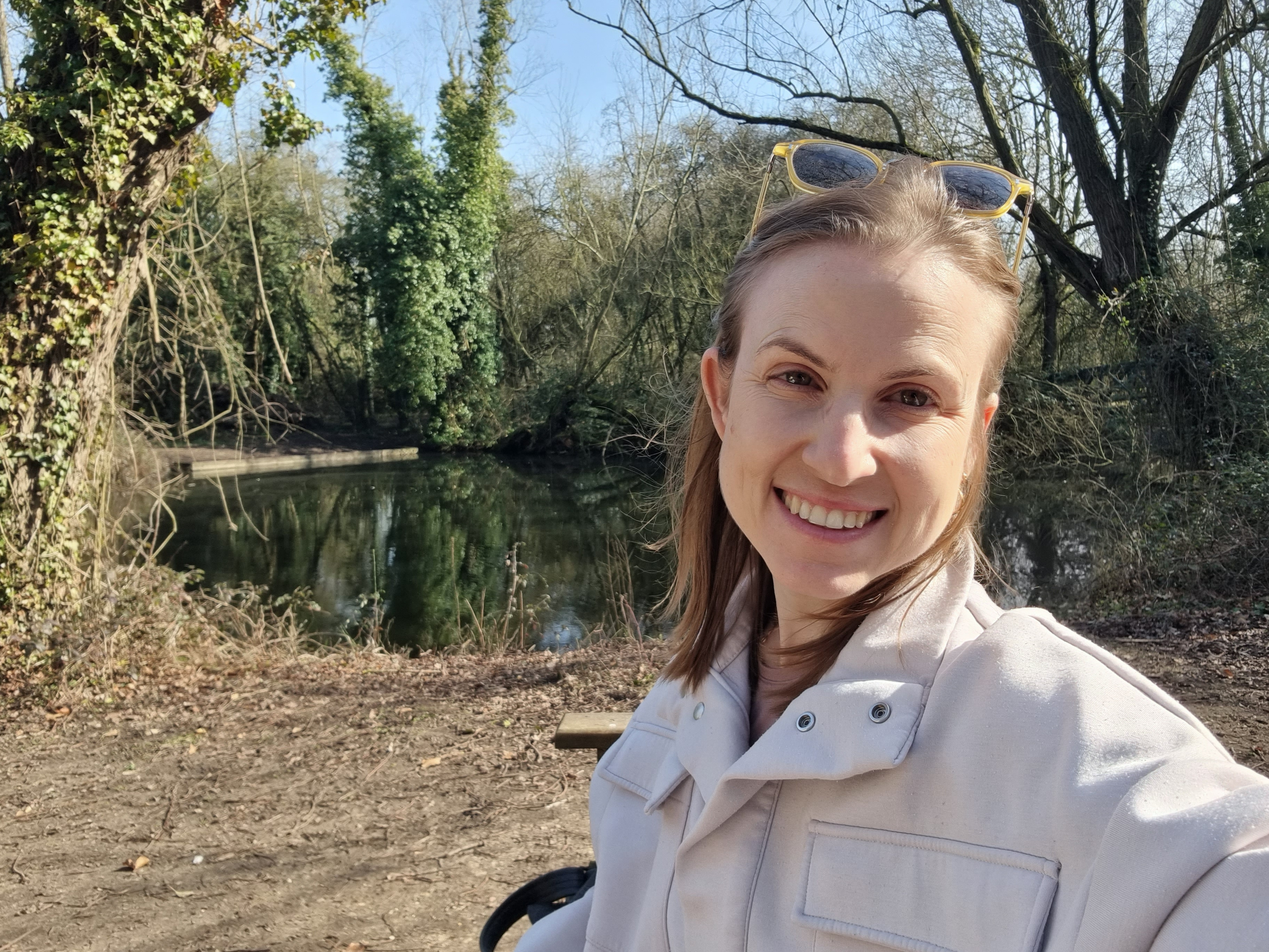
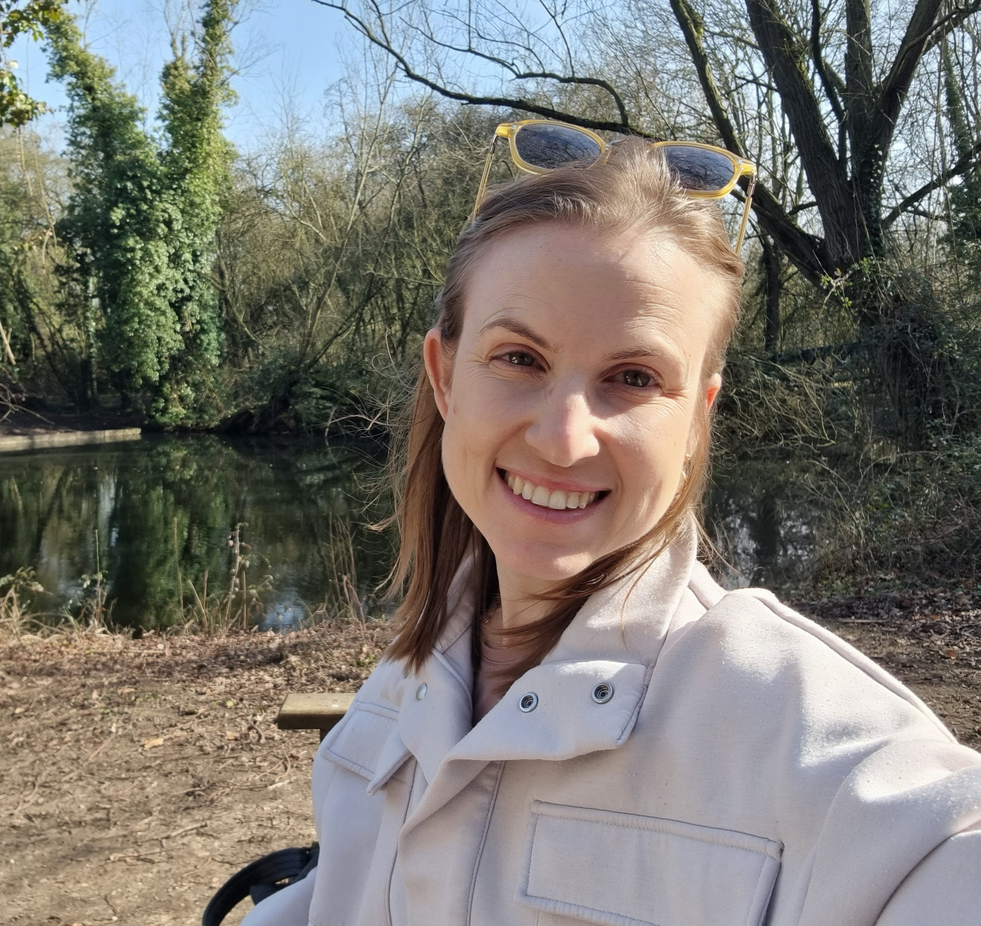
Update profile pic to cropped version, remove subtitle line

diff --git a/_pages/about.md b/_pages/about.md
@@ -2,8 +2,7 @@
 layout: about
 title: About
 permalink: /
-subtitle: >
-  PhD Candidate · <a href="https://www.cl.cam.ac.uk/">Department of Computer Science and Technology</a> · University of Cambridge
+subtitle:
 
 profile:
   align: left
